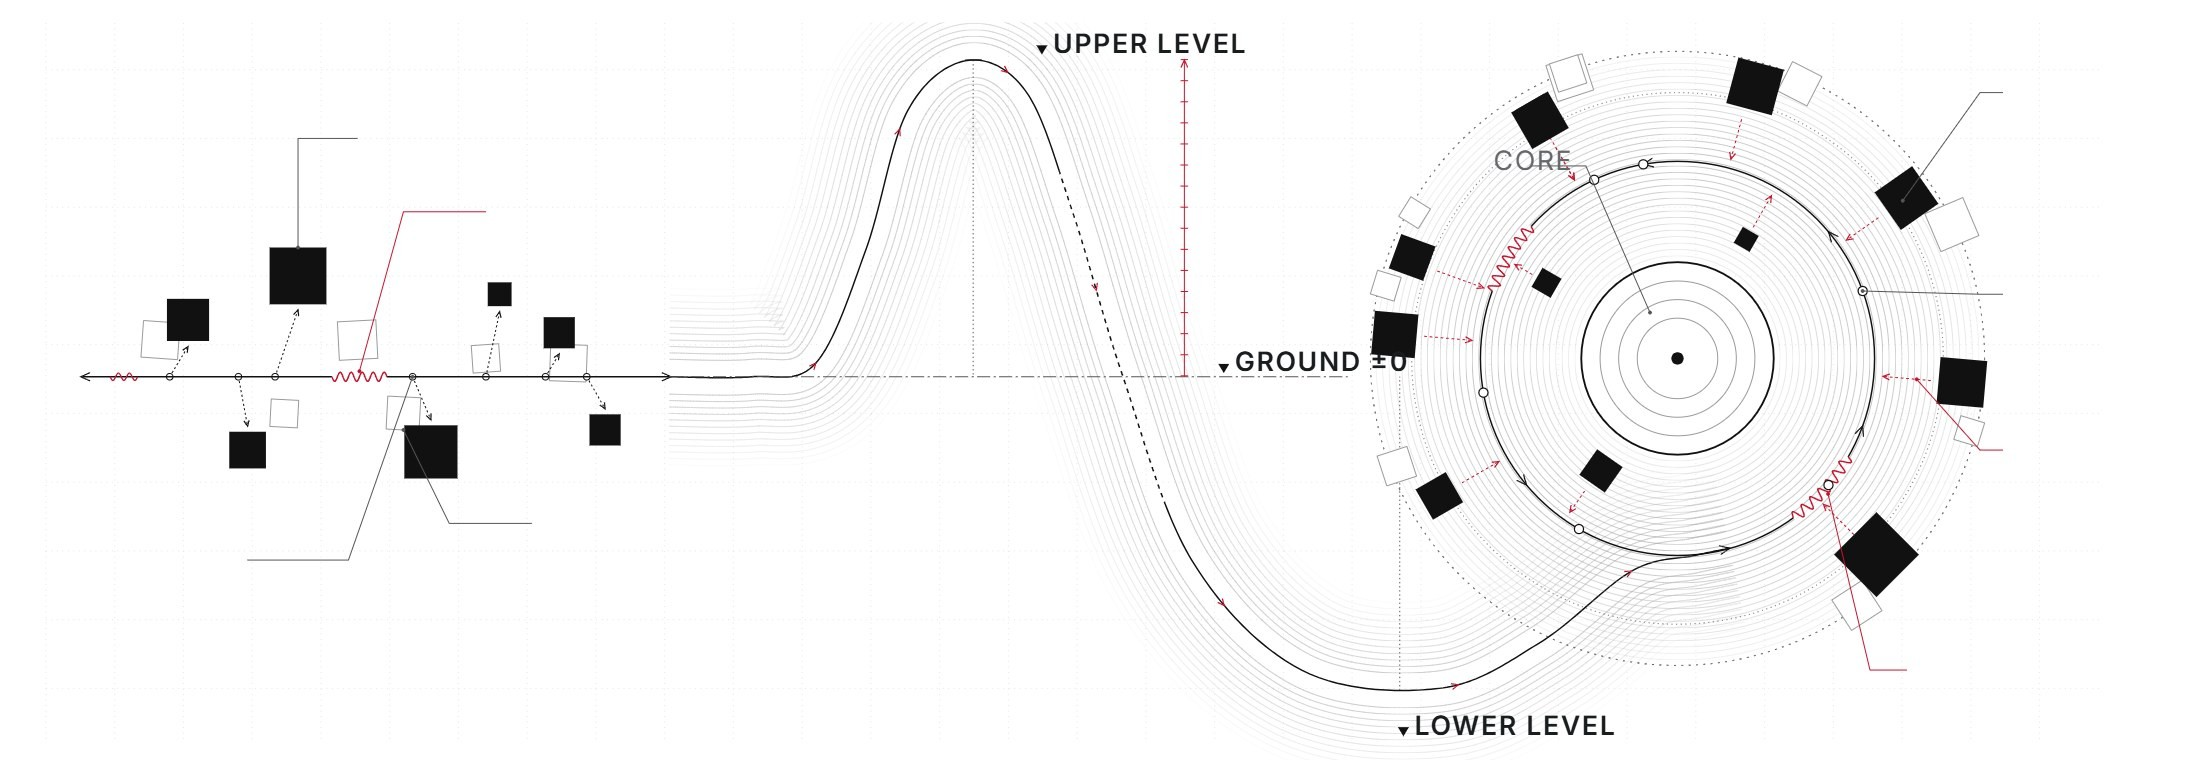
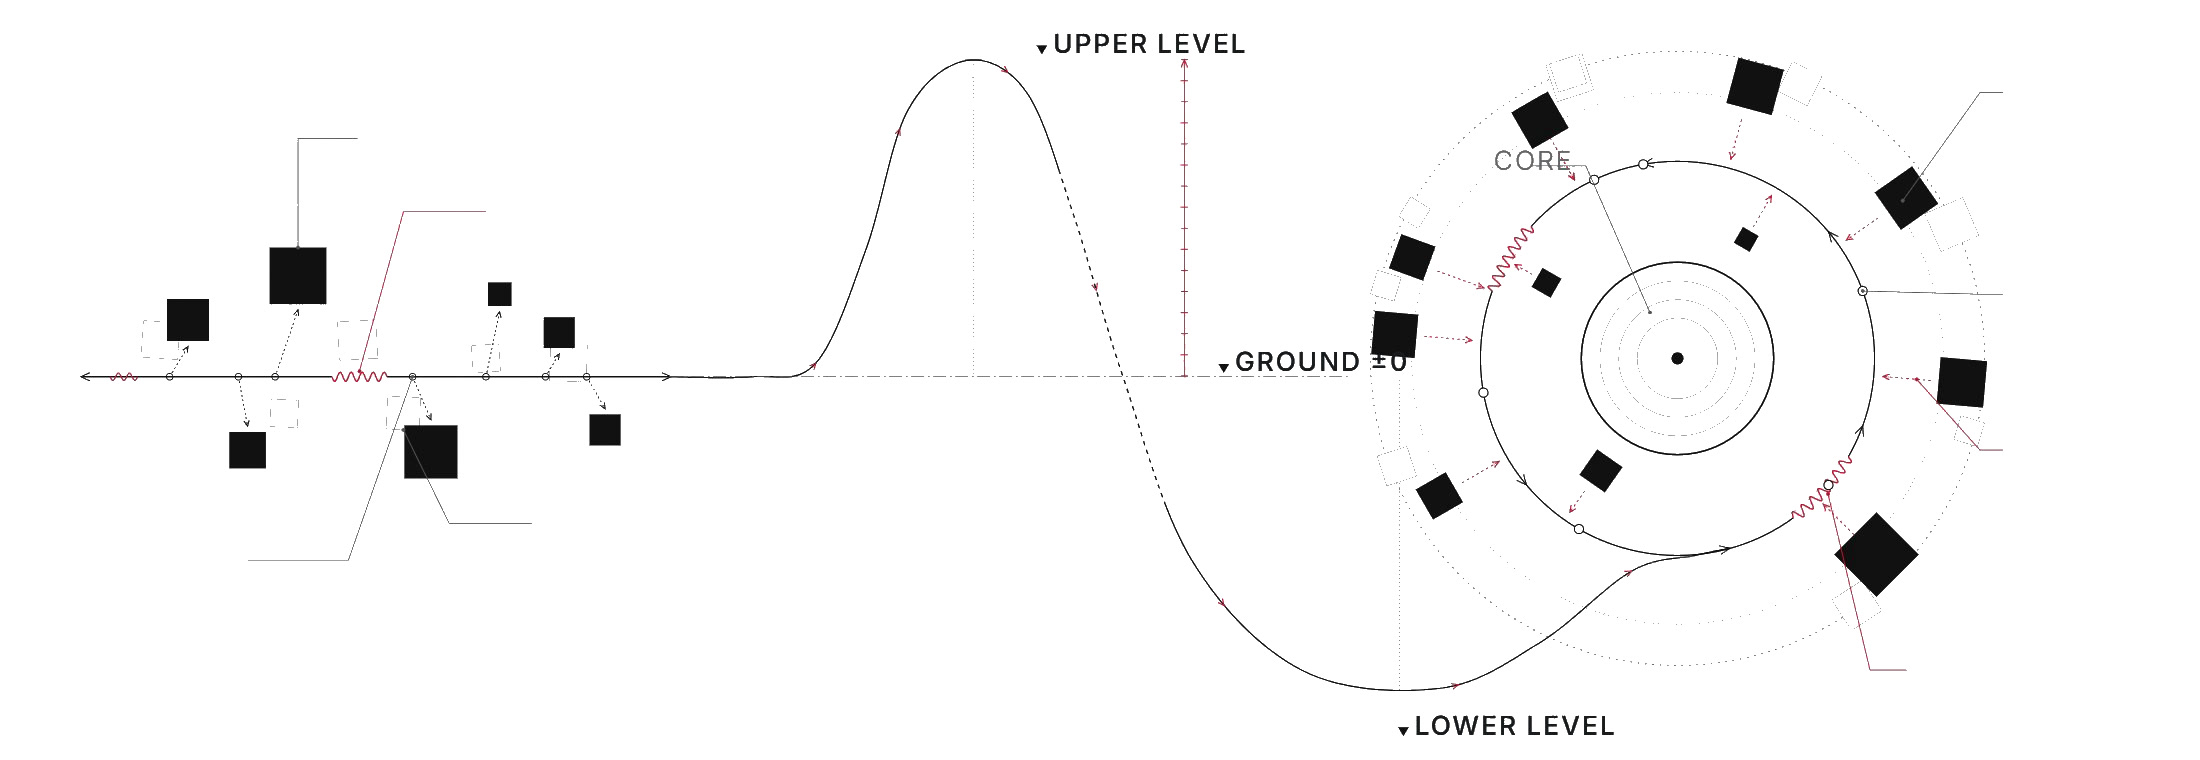
핀 #87 #88 #89 #93 (Motorism): 전략 다이어그램은 처음부터 다 보이고 빨간 네모만 천천히, 흐려지는 선 제거, 조닝 천천히, 스킨 정의 상자 폭 줄이고 화면 밖으로 밀려나게·더 천천히

diff --git a/assets/js/data.js b/assets/js/data.js
@@ -517,7 +517,7 @@ const SITE = {
     sections: [
       { heading: "District", text: "Yeonmujang-gil, Seongsu: main car-roads, parking around the site, and the point where the pop-up line ends.", images: [], panel: {"src":"assets/img/motorism/district-map.jpg","r":1.506,"w":"62%","left":[],"right":[],"notes":[["250 m","from the site to the main car-roads"],["100 m","to the nearest public parking"],["29","pop-up stores, thinning out east to the site"]],"legend":[["■","Site"],["▨","Parking lot"],["●","Pop-up store"],["⊕","Car destination"]],"cap":"01 District — Yeonmujang-gil, Seongsu. North up; base vectorised from the analysis model, scale from the CAD site plan."} },
       { heading: "Yeonmujang-gil Transect", text: "Yeonmujang-gil is defined by a linear flow of pop-up stores, densest in developed Seoseongsu and fading toward Dongseongsu. The site sits where that flow stops; with parking lots, car centres and the Achasan-ro / Seongsu-iro crossing around it, mobility is already the district's everyday culture — a car-based cultural hub here is both timely and grounded.", images: [{ sim: "transect", src: "", caption: "Transect, west to east — people walk the pop-up line and thin out at the threshold; cars arrive at the site. Scroll to run the strip on", w: "100%", r: 5.6 }] },
-      { heading: "Strategy", text: "Linear → ramp → loop. Visitors move along a single line and go out to find content; the ramp lifts movement from horizontal to vertical, layering the limited site into upper, ground and lower levels; on a set route, the content moves toward the visitor — space approaches the user.", images: [], widget: "orbit", seq: {"kind":"frames","r":2.895,"lite":true,"fade":true,"below":true,"k":1,"car":"strategy","steps":[{"src":"assets/img/motorism/strategy-1.jpg","t":"Linear seeking","s":"one line, content found on foot","d":"Visitors move along a single line and go out to find content: black squares are content, red waves experience points."},{"src":"assets/img/motorism/strategy-2.jpg","t":"Ramp as connector","s":"horizontal to vertical","d":"The ramp lifts movement from horizontal to vertical, layering the limited site into upper, ground and lower levels."},{"src":"assets/img/motorism/strategy-3.jpg","t":"Circular arrival","s":"space approaches the user","d":"Vehicles stay on a set route while pop-up content and experiences move toward them: space approaches the user."}]} },
+      { heading: "Strategy", text: "Linear → ramp → loop. Visitors move along a single line and go out to find content; the ramp lifts movement from horizontal to vertical, layering the limited site into upper, ground and lower levels; on a set route, the content moves toward the visitor — space approaches the user.", images: [], widget: "orbit", seq: {"kind":"frames","r":2.895,"lite":true,"fade":true,"below":true,"k":1,"len":6,"car":"strategy","steps":[{"src":"assets/img/motorism/strategy-3.jpg","t":"Linear seeking","s":"one line, content found on foot","d":"Visitors move along a single line and go out to find content: black squares are content, red waves experience points."},{"src":"assets/img/motorism/strategy-3.jpg","t":"Ramp as connector","s":"horizontal to vertical","d":"The ramp lifts movement from horizontal to vertical, layering the limited site into upper, ground and lower levels."},{"src":"assets/img/motorism/strategy-3.jpg","t":"Circular arrival","s":"space approaches the user","d":"Vehicles stay on a set route while pop-up content and experiences move toward them: space approaches the user."}]} },
       { heading: "Zoning", text: "Two one-way ramps, one shared centre: A up and B down cross at one point, overlap in a shared centre to gather, start from the centre onto both loops, and hold booths on the outer curves, each tied back to the centre.", images: [], widget: "zoning" },
       { heading: "Stacked Bowls", text: "Two ramps, A up at 11 % and B down at 9 %, wind through stacked bowls of car museum, drive-thru, F&B and a rooftop showroom, carried on trumpet columns.", images: [{src: "assets/img/motorism/axonometric.jpg", caption: "Axonometric — steel deck truss in every slab, two one-way ramps, trumpet columns", r: 1.349}] },
       { heading: "Plans", text: "Six levels on one grid — from the parking below ground to the showroom on the roof, the ramp and the bowls turning through every floor.", big: true, images: [], seq: {"kind":"frames","r":1.056,"fade":true,"tag":true,"steps":[{"src":"assets/img/motorism/plan-b1.jpg","t":"B1","s":"FL −4,000 — parking for 46 cars, MDF room"},{"src":"assets/img/motorism/plan-1f.jpg","t":"1F","s":"FL ±0 — entrance, F&B, pop-up, plaza"},{"src":"assets/img/motorism/plan-2f.jpg","t":"2F","s":"FL +5,200 — car museum, information, exit"},{"src":"assets/img/motorism/plan-3f.jpg","t":"3F","s":"FL +8,800 — car museum, F&B"},{"src":"assets/img/motorism/plan-4f.jpg","t":"4F","s":"FL +12,200 — drive-thru booths"},{"src":"assets/img/motorism/plan-rf.jpg","t":"RF","s":"car showroom, car theatre"}]} },
@@ -526,7 +526,7 @@ const SITE = {
       { heading: "Structure — Load, Shape, Lift", text: "The same bay read for how the load travels, how the trumpet shell is shaped, and how the ground storey goes up.", cols: 2, cw: [1.312, 1.935], images: [{src: "assets/img/motorism/load-path.jpg", caption: "Load path — bracket action", r: 1.312}, {src: "assets/img/motorism/trumpet-geometry.jpg", caption: "Trumpet geometry — GFRC shell profile as a curvature graph", r: 1.935}, {src: "assets/img/motorism/erection.jpg", caption: "Erection — ground storey in four lifts", r: 2.633, span: true}] },
       { heading: "Skin — Why This Pattern", text: "Four fields over one bay, weighted and summed, set how open each cassette is.", cols: 2, images: [{"src":"assets/img/motorism/skin-why-sight.svg","caption":"H — Sight + street","r":2.041},{"src":"assets/img/motorism/skin-why-views.svg","caption":"A — Views","r":2.041},{"src":"assets/img/motorism/skin-why-sun.svg","caption":"S — Sun","r":2.062},{"src":"assets/img/motorism/skin-why-grain.svg","caption":"N — Grain","r":2.049},{"src":"assets/img/motorism/skin-why-result.svg","caption":"Result — open area","r":2.028}] },
       { heading: "Skin — Process", text: "The eight steps of the definition, from the ramp edge to 234 cut cassettes; red marks what each step adds.", cols: 4, images: [{"src":"assets/img/motorism/skin-step-1.svg","caption":"01 Ramp edge + views","r":1.238},{"src":"assets/img/motorism/skin-step-2.svg","caption":"02 Three traced profiles","r":1.238},{"src":"assets/img/motorism/skin-step-3.svg","caption":"03 Sweep the hull","r":1.238},{"src":"assets/img/motorism/skin-step-4.svg","caption":"04 Divide into modules","r":1.238},{"src":"assets/img/motorism/skin-step-5.svg","caption":"05 Four fields","r":1.238},{"src":"assets/img/motorism/skin-step-6.svg","caption":"06 Weight + clamp","r":1.238},{"src":"assets/img/motorism/skin-step-7.svg","caption":"07 One triangle per cassette","r":1.238},{"src":"assets/img/motorism/skin-step-8.svg","caption":"08 Map back + fabricate","r":1.238}] },
-      { heading: "Skin — The Definition", text: "The Grasshopper definition: input, hull, grid, the field rule, Ladybug sun, triangle and fabrication — every component checked against the model.", images: [], pan: {"src":"assets/img/motorism/skin-flow.svg","r":12.458,"h":"56vh","build":true,"cap":"Input → hull → grid → sun → the rule → triangle → fabrication; built left to right as you scroll"} },
+      { heading: "Skin — The Definition", text: "The Grasshopper definition: input, hull, grid, the field rule, Ladybug sun, triangle and fabrication — every component checked against the model.", images: [], pan: {"src":"assets/img/motorism/skin-flow.svg","r":9.635,"h":"56vh","build":true,"cap":"Input → hull → grid → sun → the rule → triangle → fabrication; built left to right as you scroll"} },
       { heading: "Skin — One Cassette, One Input", text: "One cassette traced through the rule — then the same bay, re-run live: move one input and every cassette is re-computed.", images: [], widget: "skin" },
       { heading: "Scenes", text: "The car museum inside the bowls, the plaza under them, and the ramp winding past the showroom.", images: [{src: "assets/img/motorism/plaza.jpg", caption: "Plaza under the bowls", r: 1.5}, {src: "assets/img/motorism/interior-museum.jpg", caption: "Car museum", r: 1.778}, {src: "assets/img/motorism/ramp.jpg", caption: "Ramp and showroom", r: 1.5}], stack: true, scenes: true },
     ],

diff --git a/assets/js/site.js b/assets/js/site.js
@@ -3395,7 +3395,7 @@
     const stage = q.kind === "lead" ? lead() : q.kind === "wipe"
       ? `<img class="seq-base" src="${esc(q.src)}" alt="" decoding="async"><img class="seq-top" src="${esc(q.src)}" alt="${esc(q.steps[0].t)}" decoding="async">`
       : q.steps.map((f, i) => `<img src="${esc(f.src)}" alt="${esc(f.t)}" decoding="async"${i ? "" : ' class="on"'}${f.x ? ` style="translate:${esc(f.x)} 0"` : ""}>`).join("");
-    return `<div class="seq seq-${q.kind}${q.lite ? " seq-lite" : ""}${q.fade ? " seq-fade" : ""}${q.below ? " seq-below" : ""}" data-seq style="--n:${q.n || N};--k:${q.k || 1}${q.cols ? `;--c:${q.cols}` : ""}">
+    return `<div class="seq seq-${q.kind}${q.lite ? " seq-lite" : ""}${q.fade ? " seq-fade" : ""}${q.below ? " seq-below" : ""}" data-seq style="--n:${q.n || N};--k:${q.k || 1}${q.cols ? `;--c:${q.cols}` : ""}${q.len ? `;--len:${q.len}` : ""}">
       <div class="seq-pin">
         <div class="seq-stage media" style="aspect-ratio:${q.r};--r:${q.r}">${stage}${q.tag ? `<p class="ssn-tag seq-tag"><b>${esc(q.steps[0].t)}</b><span>${esc(q.steps[0].s || "")}</span></p>` : ""}</div>
         <div class="seq-side">
@@ -3476,7 +3476,10 @@
         // 핀 #5(2026-11-22): 짓는 띠(build)는 앞 82%에서 왼쪽부터 지어지며 흐르고, 남은 18%에서 전체가 줄어들며 한 화면에 다 보여요
         const build = el.hasAttribute("data-build"), k = build ? 0.82 : 1, tb = Math.min(1, t / k), z = build ? Math.max(0, (t - k) / (1 - k)) : 0;
         const ez = z * z * (3 - 2 * z), fit = Math.min(1, ww / Math.max(1, iw)), sc = 1 + (fit - 1) * ez;
-        const x = -tb * Math.max(0, iw - ww) * (1 - ez) + (ww - iw * sc) / 2 * ez * (fit < 1 ? 0 : 1);
+        // 핀 #93: 짓는 띠는 창이 화면 양끝까지 열려 있어 지나간 부분이 흰 칸에서 잘려 사라지지 않고 화면 밖으로 밀려나요 (시작은 본문 칸에서)
+        let off = 0; if (build) { const L = el.getBoundingClientRect().left, R = innerWidth - el.getBoundingClientRect().right; win.style.marginLeft = -L + "px"; win.style.marginRight = -R + "px"; off = L; }
+        const ww2 = win.clientWidth, xp = build ? off + tb * Math.min(0, ww2 - iw - off) : -tb * Math.max(0, iw - ww);
+        const x = xp * (1 - ez) + (ww2 - iw * sc) / 2 * ez * (fit < 1 ? 0 : 1);
         img.style.transformOrigin = "0 50%"; img._sc = sc;
         img.style.transform = `translate3d(${x.toFixed(1)}px,0,0) scale(${sc.toFixed(4)})`; bar.style.transform = `scaleX(${t})`;
         // 알고리즘 생성 (핀 #245): 스크롤에 따라 왼쪽부터 컴포넌트가 하나씩 놓이고, 양 끝이 놓이면 선이 이어져요

diff --git a/assets/css/site.css b/assets/css/site.css
@@ -528,7 +528,7 @@ h1, h2, h3 { font-weight: 400; text-wrap: balance; }
 /* 도면 선을 연하게 (포트폴리오 원본보다 한결 가볍게) */
 .dwg-track .mz > img { filter: contrast(0.55) brightness(1.2); }
 /* 스크롤 단계 그림: 화면에 걸린 채 단계가 넘어가요 */
-.seq { position: relative; height: calc(var(--n) * 62vh + 100vh); margin-bottom: var(--gap); }
+.seq { position: relative; height: calc(var(--len, var(--n)) * 62vh + 100vh); margin-bottom: var(--gap); }
 .seq-pin { position: sticky; top: 72px; height: calc(100vh - 140px); display: grid; grid-template-columns: minmax(0, 1.5fr) minmax(0, 1fr); gap: 28px; align-items: center; }
 .seq-stage { width: calc(min(78%, calc((100vh - 220px) * var(--r))) * var(--k, 1) * var(--dgs, 1)); height: auto; justify-self: center; align-self: center; background: var(--bg); }
 .seq-stage img { position: absolute; inset: 0; width: 100%; height: 100%; object-fit: contain; }
@@ -552,7 +552,7 @@ h1, h2, h3 { font-weight: 400; text-wrap: balance; }
 .seq-bar { height: 1px; background: var(--line); margin-top: 14px; }
 .seq-bar i { display: block; height: 100%; background: var(--ink); transform-origin: left; transform: scaleX(0); }
 @media (max-width: 760px) {
-  .seq { height: calc(var(--n) * 55vh + 100vh); }
+  .seq { height: calc(var(--len, var(--n)) * 55vh + 100vh); }
   .seq-pin { top: 56px; height: calc(100vh - 110px); grid-template-columns: 1fr; grid-template-rows: minmax(0, 1fr) auto; gap: 12px; align-items: stretch; }
   .seq-stage { width: min(86%, calc((100vh - 320px) * var(--r))); }
   .seq-side li:not(.on) { display: none; }
@@ -1720,8 +1720,8 @@ html.ct-lock body, html.ct-lock .ct, html.ct-lock .ct *, html.mn-on body, html.m
 html.ct-lock .ct a, html.ct-lock .ct button, html.ct-lock .ct [data-ct-close], html.mn-on #menu a, html.mn-on .hdr a, html.mn-on .hdr button { cursor: pointer !important; }
 
 /* 핀 #5: 짓는 띠는 스크롤 길이를 두 배로(더 천천히), 마지막엔 전체 축소 */
-.pan.pan-build { height: 440vh; }
-@media (max-width: 760px) { .pan.pan-build { height: 380vh; } }
+.pan.pan-build { height: 640vh; } /* 핀 #93: 더 천천히 */
+@media (max-width: 760px) { .pan.pan-build { height: 520vh; } }
 
 /* 핀 #4: 장면 넘김 위를 달리는 빨간 네모(차) — 지나간 길은 가는 빨간 선으로 남아요 */
 .seq-car { position: absolute; inset: 0; width: 100%; height: 100%; z-index: 4; pointer-events: none; overflow: visible; }

diff --git a/assets/js/tide.js b/assets/js/tide.js
@@ -17,11 +17,11 @@
   const reduce = matchMedia("(prefers-reduced-motion: reduce)").matches;
 
   // 스크롤(휠)·드래그·키보드를 하나의 '목표값'으로 모아서 부드럽게 따라가게 해요
-  const driver = (box, { get, set, min = -Infinity, max = Infinity, perWheel, perPx, onFrame }) => {
+  const driver = (box, { get, set, min = -Infinity, max = Infinity, perWheel, perPx, onFrame, ease = 0.14 }) => {
     let tv = get(), cv = tv, raf = 0;
     const clamp = (v) => Math.min(max, Math.max(min, v));
     const loop = () => {
-      cv += (tv - cv) * (reduce ? 1 : 0.14);
+      cv += (tv - cv) * (reduce ? 1 : ease);
       if (Math.abs(tv - cv) < 1e-4) cv = tv;
       set(cv); onFrame && onFrame(cv);
       raf = cv !== tv ? requestAnimationFrame(loop) : 0;
@@ -535,7 +535,7 @@
       list.forEach((g, i) => g.classList.toggle("on", i === k));
       zs.textContent = ST[k][0]; rr.textContent = ["A up 11 % · B down 9 %", "one hub, two loops", "start at the centre", "booths on the outer curves"][k]; rp.textContent = ST[k][1];
     };
-    driver(box, { get: () => 0, set, min: 0, max: 3.999, perWheel: 0.22, perPx: (b) => 4 / b.getBoundingClientRect().width });
+    driver(box, { get: () => 0, set, min: 0, max: 3.999, perWheel: 0.11, ease: 0.07, perPx: (b) => 2 / b.getBoundingClientRect().width }); // 핀 #89: 천천히
     set(0);
   };
 
